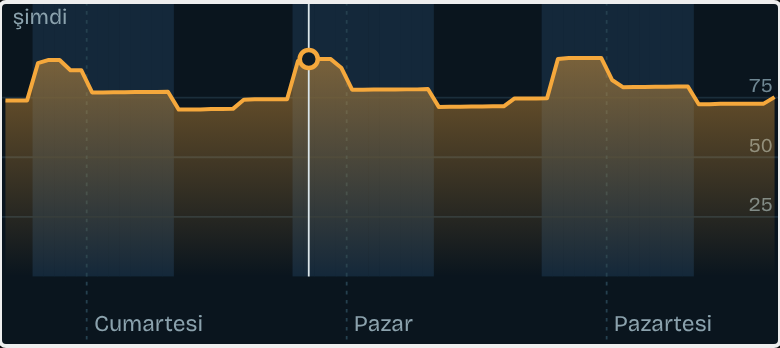
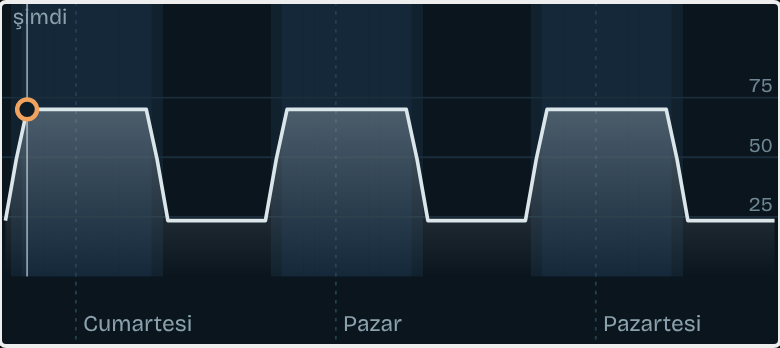
Spots: record whether the coastline method found a sea probe; review list columns
Claude-Session: https://claude.ai/code/session_01TJQj1bgS7eeTjR1ud5CFzN

diff --git a/pipeline/tests/test_bathy.py b/pipeline/tests/test_bathy.py
@@ -129,6 +129,7 @@ def test_build_spots_uses_dtm_probe_when_coastline_method_fails():
     far = way(2, {"natural": "coastline"}, [(LAT + 300 * DLAT, LON - 0.05), (LAT + 300 * DLAT, LON + 0.05)])
     raw = {"elements": [way(1, {"natural": "coastline"}, COASTS[0]), pier(10, 0, 20), far]}
     assert bs.build(raw)["features"][0]["properties"]["probe_lat"] is None
+    assert bs.build(raw)["features"][0]["properties"]["coast_probe_found"] is False
     g = sloped_grid(k=0.1)
     g.elev[g.lat > LAT + 300 * DLAT, :] = np.nan  # the far shore is land in the DTM too
     p = bs.build(raw, g)["features"][0]["properties"]

diff --git a/pipeline/av_pipeline/spots/build_spots.py b/pipeline/av_pipeline/spots/build_spots.py
@@ -134,6 +134,7 @@ def build_candidate(s: dict, coast: Coast, places: list[dict], grid: Grid | None
         "probe_lon": None,
         "probe_ok": None,
         "probe_source": None,
+        "coast_probe_found": probe is not None,
         "normal_source": "osm",
         "osm_normal_deg": round(normal, 1),
         "depth_200m": None,

diff --git a/docs/spots-review.md b/docs/spots-review.md
@@ -1,28 +1,28 @@
 # Mera inceleme listesi
 
-Sahada doğrulama için aday meralar. Üretildi: 2026-10-30 13:53 UTC, `node scripts/spots-review.mjs`.
+Sahada doğrulama için aday meralar. Üretildi: 2026-10-30 14:21 UTC, `node scripts/spots-review.mjs`.
 
 - **Kıyı normali:** meranın denize baktığı yön (iskele/mahmuzda kökten uca, mendirekte 300 m'lik kıyı ortalaması).
 - **Deniz noktası:** uçtan normal yönünde Open-Meteo Marine için seçilen nokta ve uca uzaklığı.
 - **Open-Meteo kayması:** Marine modelinin deniz noktası yerine kullandığı grid noktasının uzaklığı. Büyükse dalga/su/akıntı başka bir yerin verisidir.
 - **Lamba:** `?` = bilinmiyor; puanda lambasız sayılır. Admin formundan (`/admin/`) güncellenir.
-- ⚠: deniz noktası kıyı normaliyle bulunamadı (3 mera); F2'den itibaren DTM'de ≥5 m derinliğe ulaşan ilk noktadan seçilir.
+- ⚠: deniz noktası kıyı normaliyle bulunamadı (15 mera); F2'den itibaren DTM'de ≥5 m derinliğe ulaşan ilk noktadan seçilir.
 
 | # | Ad | Tür | Koordinat | Harita | Kıyı normali | Deniz noktası | Kaynak | Open-Meteo kayması | Lamba | Derinlik 200 m |
 |---|---|---|---|---|---|---|---|---|---|---|
-| 1 | İskele (Kapaklı) | İskele | 40.45773, 28.97090 | [harita](https://www.google.com/maps?q=40.457728,28.970898) | 148° GD | 753 m | kıyı normali | 1.6 km | ? | – |
-| 2 | İskele (Armutlu) | İskele | 40.51731, 28.78977 | [harita](https://www.google.com/maps?q=40.517312,28.789766) | 172° G | 755 m | kıyı normali | 3.5 km | ? | – |
-| 3 | Küçükkumla İskelesi | İskele | 40.46665, 29.10188 | [harita](https://www.google.com/maps?q=40.466648,29.101885) | 132° GD | 2003 m | kıyı normali | 6.6 km | ? | – |
-| 4 | Mudanya İskelesi | İskele | 40.37511, 28.88961 | [harita](https://www.google.com/maps?q=40.375108,28.889607) | 52° KD | 752 m | kıyı normali | 9.0 km | ? | – |
-| 5 | Mendirek (Armutlu) | Mendirek | 40.50604, 28.84933 | [harita](https://www.google.com/maps?q=40.506039,28.849330) | 196° G | 754 m | kıyı normali | 5.2 km | ? | – |
+| 1 | İskele (Kapaklı) | İskele | 40.45773, 28.97090 | [harita](https://www.google.com/maps?q=40.457728,28.970898) | 215° GB | 753 m | ⚠ DTM (≥5 m) | – | ? | 3.4 m |
+| 2 | İskele (Armutlu) | İskele | 40.51731, 28.78977 | [harita](https://www.google.com/maps?q=40.517312,28.789766) | 190° G | 754 m | ⚠ DTM (≥5 m) | 3.5 km | ? | 4.2 m |
+| 3 | Küçükkumla İskelesi | İskele | 40.46665, 29.10188 | [harita](https://www.google.com/maps?q=40.466648,29.101885) | 215° GB | 753 m | ⚠ DTM (≥5 m) | 4.7 km | ? | 0.0 m |
+| 4 | Mudanya İskelesi | İskele | 40.37511, 28.88961 | [harita](https://www.google.com/maps?q=40.375108,28.889607) | 45° KD | 753 m | ⚠ DTM (≥5 m) | 8.9 km | ? | 2.0 m |
+| 5 | Mendirek (Armutlu) | Mendirek | 40.50604, 28.84933 | [harita](https://www.google.com/maps?q=40.506039,28.849330) | 195° G | 754 m | ⚠ DTM (≥5 m) | 5.2 km | ? | 0.4 m |
 | 6 | Mendirek (Armutlu) | Mendirek | 40.50981, 28.82821 | [harita](https://www.google.com/maps?q=40.509813,28.828213) | 170° G | 755 m | kıyı normali | 6.3 km | ? | – |
-| 7 | Mendirek (Armutlu) | Mendirek | 40.50813, 28.82864 | [harita](https://www.google.com/maps?q=40.508129,28.828639) | 80° D | ⚠ yok | ⚠ bulunamadı | – | ? | – |
-| 8 | İskele (Fıstıklı) | İskele | 40.48572, 28.87729 | [harita](https://www.google.com/maps?q=40.485724,28.877289) | 244° GB | 750 m | kıyı normali | 2.8 km | ? | – |
-| 9 | Mendirek (Armutlu) | Mendirek | 40.50907, 28.82474 | [harita](https://www.google.com/maps?q=40.509072,28.824744) | 231° GB | 751 m | kıyı normali | 4.7 km | ? | – |
-| 10 | Petek Sitesi İskele | İskele | 40.38079, 28.84796 | [harita](https://www.google.com/maps?q=40.380793,28.847960) | 170° G | ⚠ yok | ⚠ bulunamadı | – | ? | – |
-| 11 | Mendirek (Güzelyalı Burgaz) | Mendirek | 40.35583, 28.93012 | [harita](https://www.google.com/maps?q=40.355826,28.930124) | 73° D | 750 m | kıyı normali | 11.3 km | ? | – |
-| 12 | Mendirek (Güzelyalı Burgaz) | Mendirek | 40.35678, 28.92909 | [harita](https://www.google.com/maps?q=40.356780,28.929093) | 63° KD | 750 m | kıyı normali | 11.1 km | ? | – |
-| 13 | İskele (İslamköy) | İskele | 40.41717, 29.09121 | [harita](https://www.google.com/maps?q=40.417167,29.091209) | 320° KB | 753 m | kıyı normali | 5.5 km | ? | – |
-| 14 | İskele (Tirilye) | İskele | 40.39375, 28.79843 | [harita](https://www.google.com/maps?q=40.393749,28.798426) | 26° KD | 753 m | kıyı normali | 6.6 km | ? | – |
-| 15 | İDO Güzelyalı Feribot İskelesi | İskele | 40.35573, 28.92871 | [harita](https://www.google.com/maps?q=40.355731,28.928711) | 143° GD | ⚠ yok | ⚠ bulunamadı | – | ? | – |
-| 16 | İskele (Demirsubaşı) | İskele | 40.43174, 29.15126 | [harita](https://www.google.com/maps?q=40.431742,29.151263) | 257° B | 749 m | kıyı normali | 9.1 km | ? | – |
+| 7 | Mendirek (Armutlu) | Mendirek | 40.50813, 28.82864 | [harita](https://www.google.com/maps?q=40.508129,28.828639) | 180° G | 755 m | ⚠ DTM (≥5 m) | 6.2 km | ? | 0.5 m |
+| 8 | İskele (Fıstıklı) | İskele | 40.48572, 28.87729 | [harita](https://www.google.com/maps?q=40.485724,28.877289) | 230° GB | 751 m | ⚠ DTM (≥5 m) | 2.6 km | ? | 8.4 m |
+| 9 | Mendirek (Armutlu) | Mendirek | 40.50907, 28.82474 | [harita](https://www.google.com/maps?q=40.509072,28.824744) | 215° GB | 753 m | ⚠ DTM (≥5 m) | 4.9 km | ? | 0.3 m |
+| 10 | Petek Sitesi İskele | İskele | 40.38079, 28.84796 | [harita](https://www.google.com/maps?q=40.380793,28.847960) | 10° K | 754 m | ⚠ DTM (≥5 m) | – | ? | 23.6 m |
+| 11 | Mendirek (Güzelyalı Burgaz) | Mendirek | 40.35583, 28.93012 | [harita](https://www.google.com/maps?q=40.355826,28.930124) | 0° K | 754 m | ⚠ DTM (≥5 m) | 10.9 km | ? | 0.0 m |
+| 12 | Mendirek (Güzelyalı Burgaz) | Mendirek | 40.35678, 28.92909 | [harita](https://www.google.com/maps?q=40.356780,28.929093) | 5° K | 754 m | ⚠ DTM (≥5 m) | 10.8 km | ? | 1.1 m |
+| 13 | İskele (İslamköy) | İskele | 40.41717, 29.09121 | [harita](https://www.google.com/maps?q=40.417167,29.091209) | 10° K | 754 m | ⚠ DTM (≥5 m) | 5.8 km | ? | 5.7 m |
+| 14 | İskele (Tirilye) | İskele | 40.39375, 28.79843 | [harita](https://www.google.com/maps?q=40.393749,28.798426) | 0° K | 754 m | ⚠ DTM (≥5 m) | 6.5 km | ? | 2.1 m |
+| 15 | İDO Güzelyalı Feribot İskelesi | İskele | 40.35573, 28.92871 | [harita](https://www.google.com/maps?q=40.355731,28.928711) | 5° K | 754 m | ⚠ DTM (≥5 m) | 10.9 km | ? | 0.0 m |
+| 16 | İskele (Demirsubaşı) | İskele | 40.43174, 29.15126 | [harita](https://www.google.com/maps?q=40.431742,29.151263) | 255° B | 750 m | ⚠ DTM (≥5 m) | 9.1 km | ? | 3.2 m |
